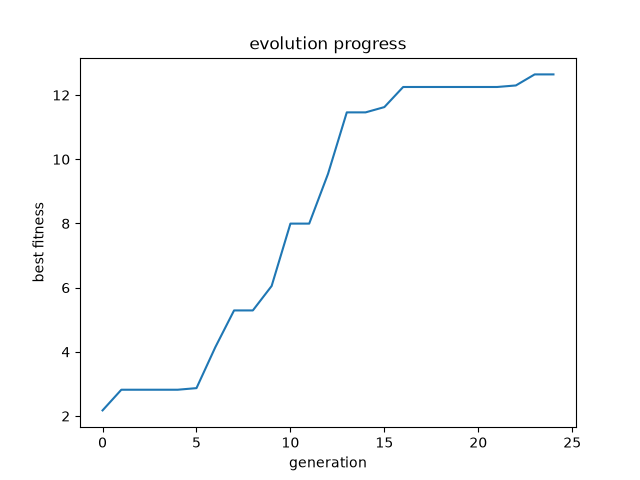
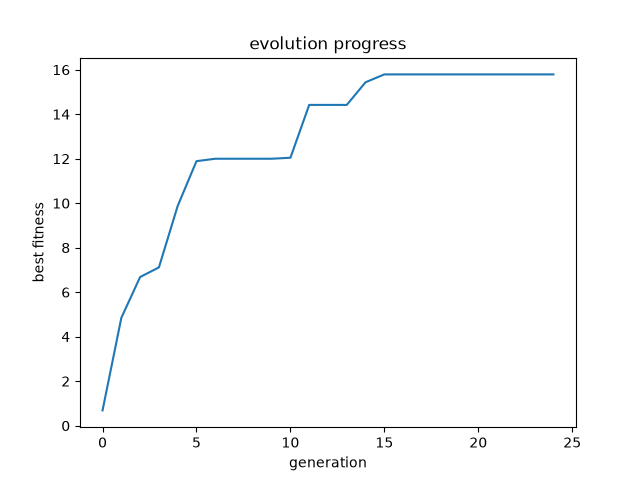
make rays 7 and implement partial progress

diff --git a/car.py b/car.py
@@ -4,6 +4,7 @@ from brain import create_brain, think
 
 ACCELERATION = 0.06
 GRASS_COLOR = (60, 150, 60, 255)
+RAY_OFFSETS = [90, 60, 30, 0 , -30, -60, -90]
 RAY_LENGTH = 200
 BIG_STEP = 4                # ray stride: about 5x faster rays; can overshoot by a few px only when a ray grazes a wall edge
 NO_PROGRESS_LIMIT = 800     # frames without reaching a new gate before a car is stopped (catches circlers)
@@ -16,14 +17,17 @@ class Car:
 
         self.x = start_x
         self.y = start_y
+        self.start_x = start_x
+        self.start_y = start_y
         self.angle = start_angle
         self.speed = 0
         self.brain = brain
         self.fitness = 0
         self.score = 0
+        self.frames = 0
         self.next_checkpoint = 0
         self.laps = 0
-        self.distances = [1, 1, 1, 1, 1]
+        self.distances = [1, 1, 1, 1, 1, 1, 1]
         self.alive = True
         self.rotated_image = None
         self.rotated_rect = None
@@ -32,19 +36,22 @@ class Car:
     def reset(self, start_x, start_y, start_angle):
         self.x = start_x
         self.y = start_y
+        self.start_x = start_x
+        self.start_y = start_y
         self.angle = start_angle
         self.speed = 0
         self.score = 0
+        self.frames = 0
         self.laps = 0
         self.next_checkpoint = 0
         self.alive = True
-        self.distances = [1, 1, 1, 1, 1]
+        self.distances = [1, 1, 1, 1, 1, 1, 1]
         self.rotated_image = None
         self.rotated_rect = None
         self.frames_since_gate = 0
 
     def drive(self):
-        output = think(self.brain, self.distances)
+        output = think(self.brain, self.distances + [self.speed/ 3])
         steer = output[0]
         gas = output[1]
 
@@ -54,14 +61,15 @@ class Car:
         self.x += self.speed * math.cos(math.radians(self.angle))
         self.y -= self.speed * math.sin(math.radians(self.angle))
 
-        self.speed *= 0.98    
+        self.speed *= 0.98  
+        self.frames += 1  
 
     def sense(self, track):
 
         self.distances = []
         self.ray_ends = []
 
-        for offset in [90, 45, 0, -45, -90]:
+        for offset in RAY_OFFSETS:
 
             # the ray's direction never changes while we walk along it, so work it out once
             ray_angle = math.radians(self.angle + offset)
@@ -108,6 +116,7 @@ class Car:
             if self.next_checkpoint == len(checkpoints):
                 self.laps += 1
                 self.alive = False
+                self.lap_frames = self.frames
                 self.next_checkpoint = 0
 
             self.score += 1
@@ -116,4 +125,22 @@ class Car:
             self.frames_since_gate += 1
             if self.frames_since_gate > NO_PROGRESS_LIMIT:
                 self.alive = False
-    
+
+
+    def progress(self, checkpoints):
+        if self.laps >= 1:
+            return 1
+
+        next_gate = checkpoints[self.next_checkpoint]
+        if self.next_checkpoint == 0:
+            prev_gate = (self.start_x, self.start_y)
+        else:
+            prev_gate = checkpoints[self.next_checkpoint - 1]
+
+        gap = math.dist(prev_gate, next_gate)
+        left = math.dist((self.x, self.y), next_gate)
+
+        fraction = 1 - (left / gap)
+        fraction = max(0, min(fraction, 1))
+
+        return (self.score + fraction) / len(checkpoints)

diff --git a/evaluate.py b/evaluate.py
@@ -23,7 +23,7 @@ car_image = pygame.transform.scale(car_image, (50, 25))
 GENERATION_FRAMES = 3000
 CHECKPOINT_RADIUS = 70
 
-with open("best_brain_uncapped.pkl", "rb") as file:
+with open("best_brain_capped.pkl", "rb") as file:
     brain = pickle.load(file)
 
 for t in tracks:
@@ -64,7 +64,7 @@ for t in tracks:
 
     print("laps: " + str(car.laps))
 
-    if car.alive:
+    if car.laps >= 1:
         print("alive")
     else:
         print("dead")

diff --git a/brain.py b/brain.py
@@ -3,7 +3,7 @@ import numpy as np
 MUTATION_STRENGTH = 0.1
 
 def create_brain():
-    W1 = np.random.uniform(-1, 1, (8, 5))
+    W1 = np.random.uniform(-1, 1, (8, 8))
     b1 = np.random.uniform(-1, 1, 8)
 
     W2 = np.random.uniform(-1, 1, (2, 8))
